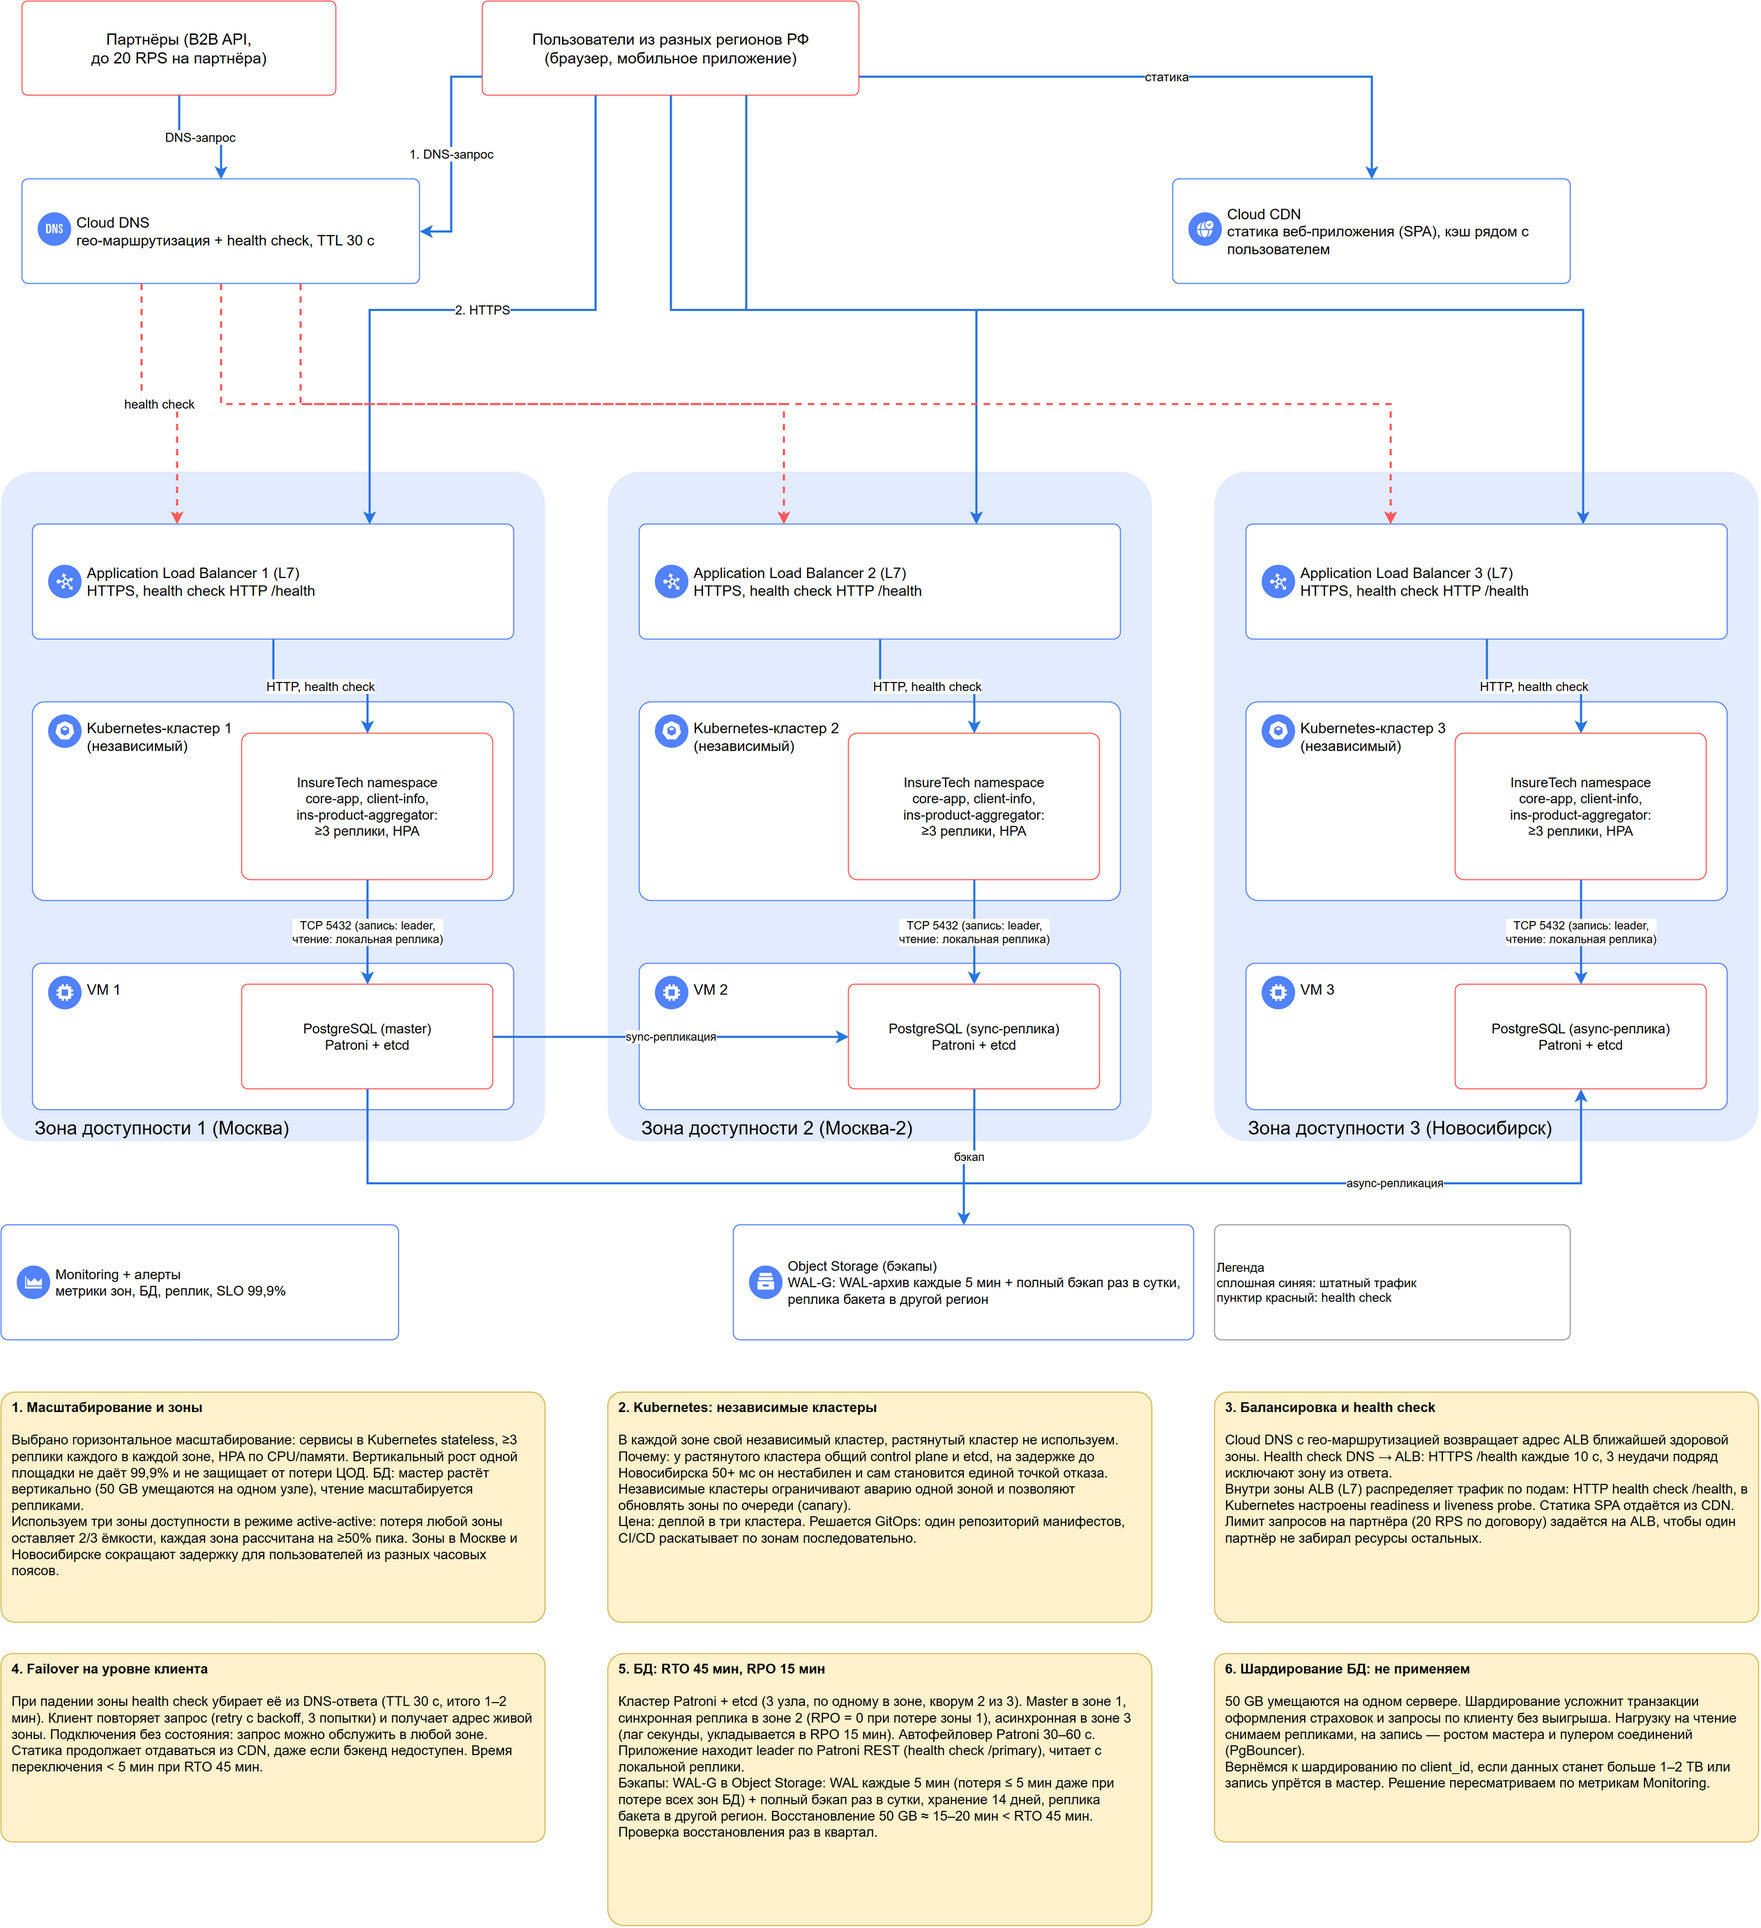
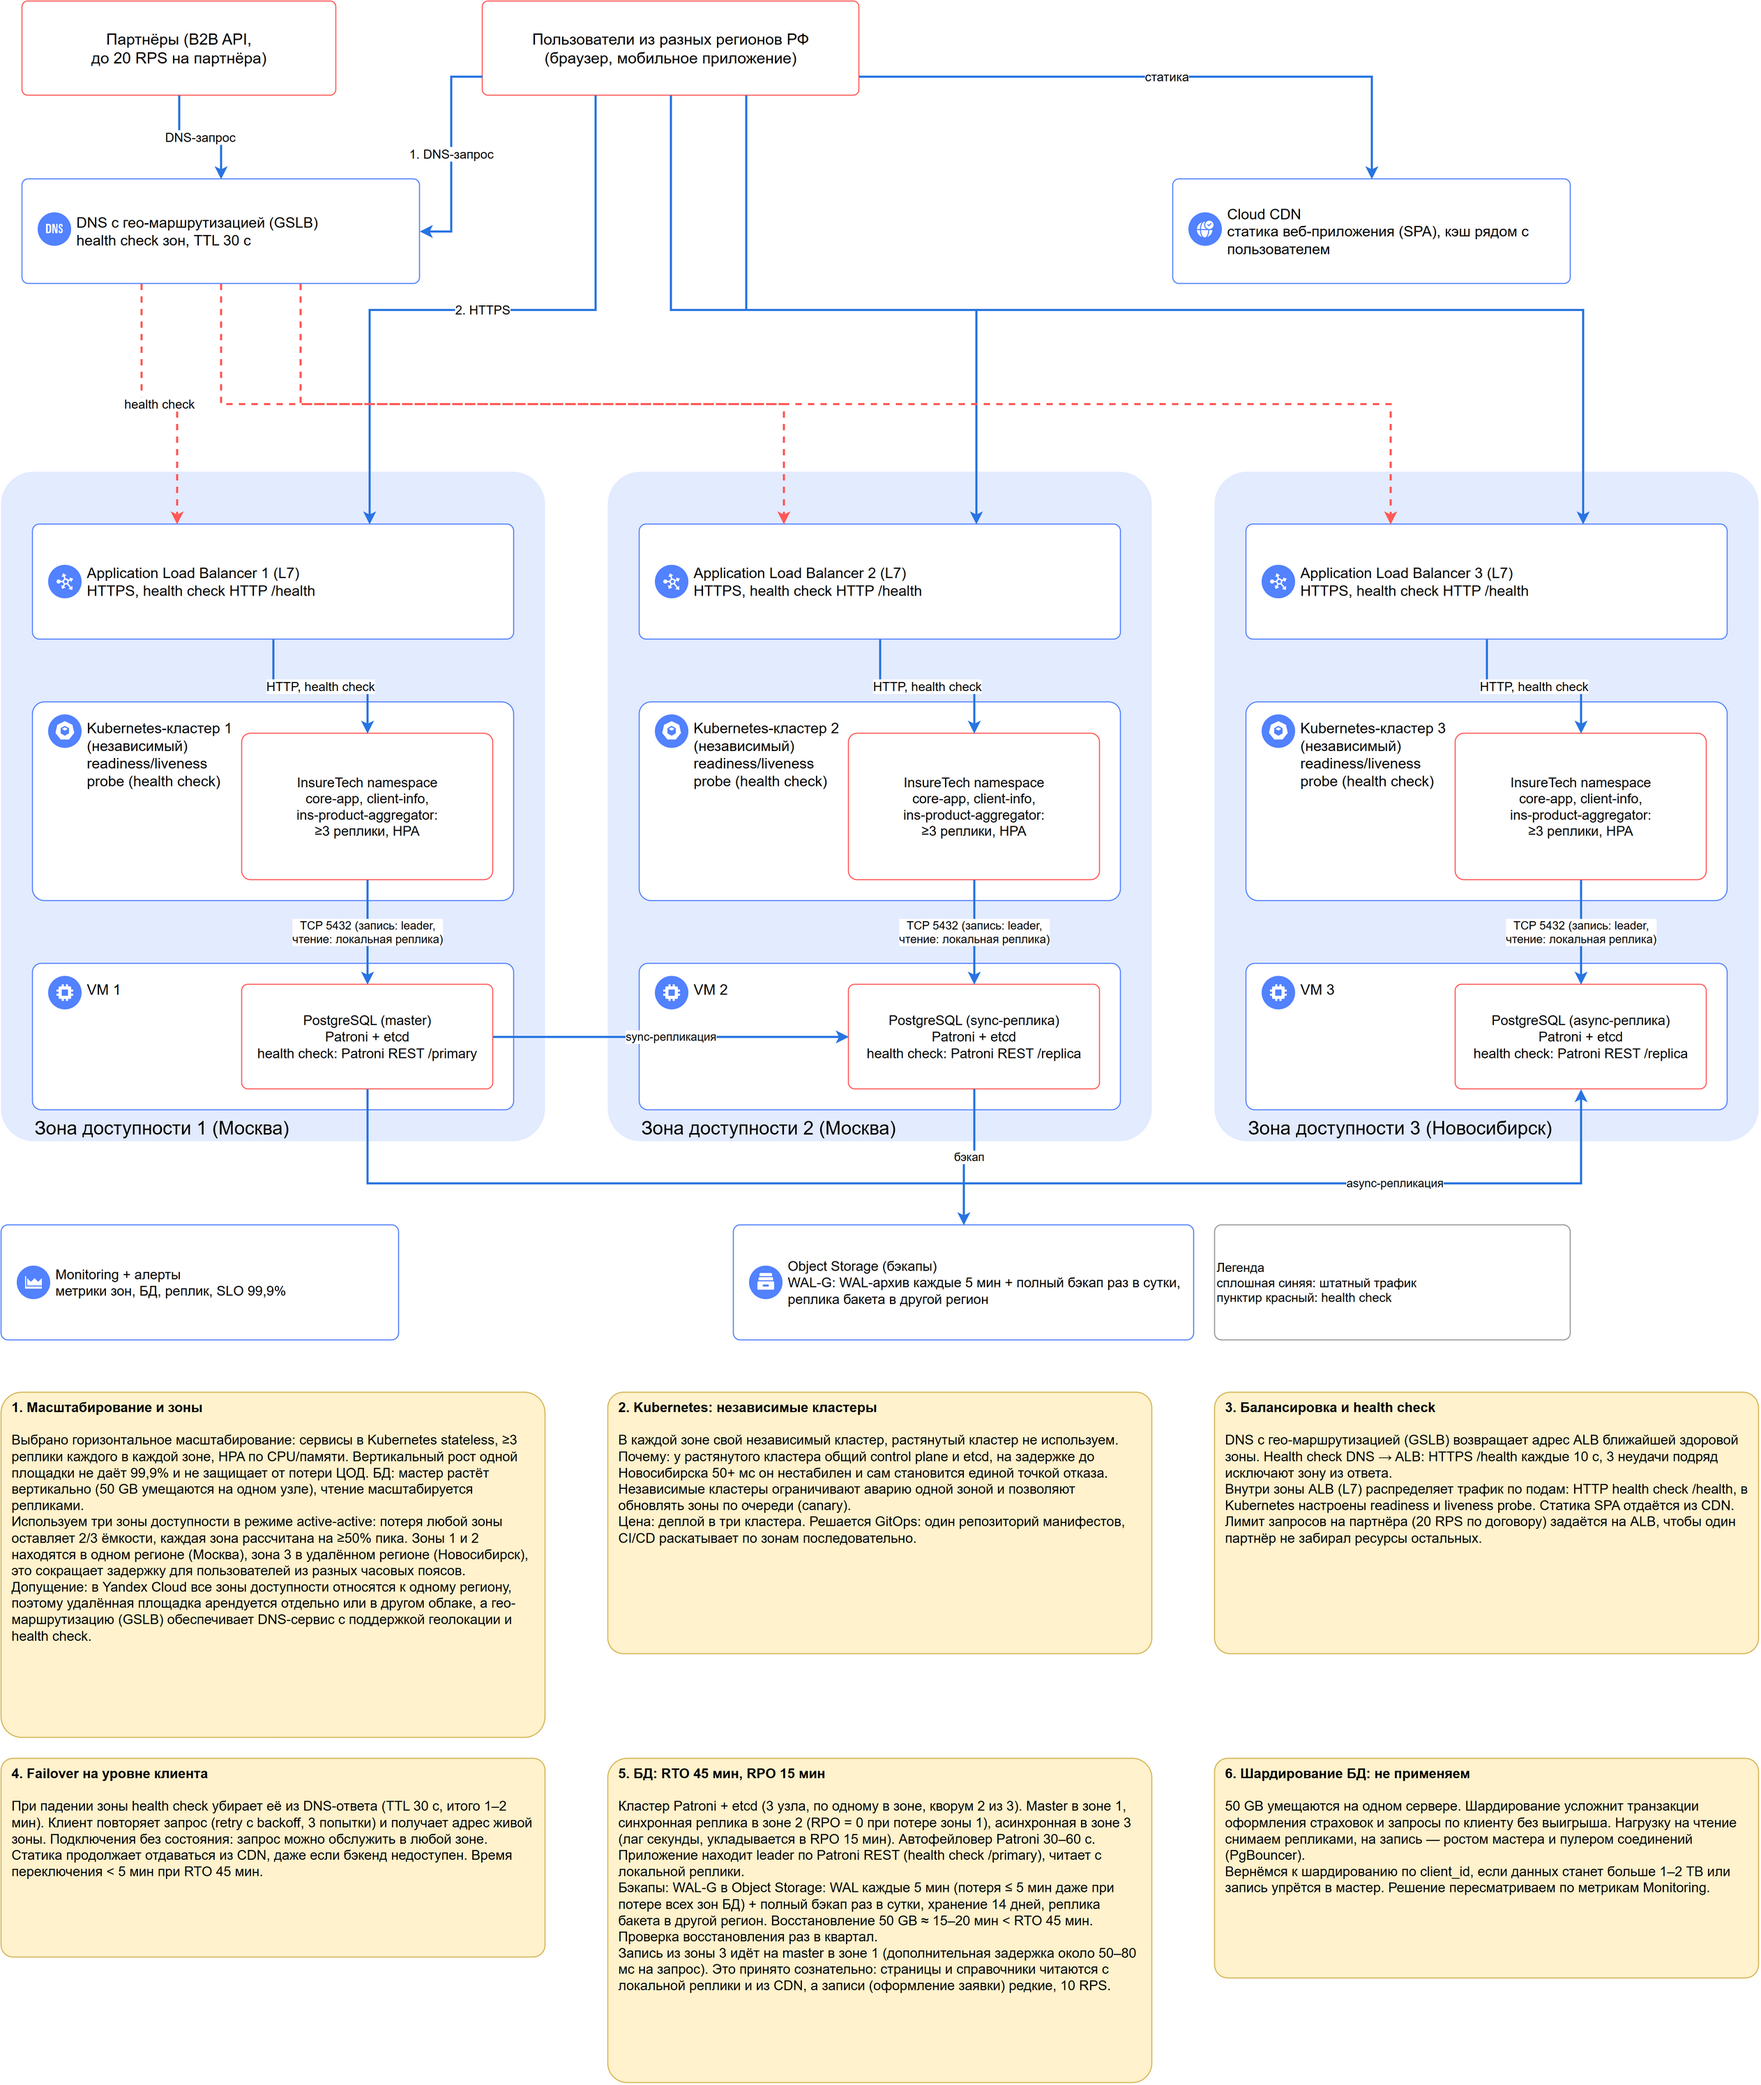
Правки по результатам приёмки: Task1, Task2, Task3, Task4

diff --git a/Task2/README.md b/Task2/README.md
@@ -1,0 +1,52 @@
+# Задание 2. Динамическое масштабирование
+
+## Файлы
+
+| Файл | Содержимое |
+|------|-----------|
+| `deployment.yaml` | Deployment: 1 реплика, лимит памяти 30Mi, порт 8080 |
+| `service.yaml` | Service типа NodePort на порт 8080 |
+| `hpa.yaml` | HPA: масштабирование по памяти, цель 80%, от 1 до 10 реплик |
+| `locustfile.py` | Сценарий нагрузки: пользователи ходят на `GET /` с паузой 1–5 с |
+| `replicas-log.txt` | Состояние HPA и Deployment каждые 15 секунд во время теста |
+| `hpa-describe.txt` | Вывод `kubectl describe hpa` с событием `SuccessfulRescale` и список подов |
+
+## Запуск
+
+```bash
+minikube start -p sprint8 --driver=docker --cpus=2 --memory=2048
+minikube -p sprint8 addons enable metrics-server
+kubectl apply -f deployment.yaml -f service.yaml -f hpa.yaml
+minikube service scaletestapp -p sprint8 --url
+locust -f locustfile.py --headless -u 300 -r 30 -t 5m --host <адрес из предыдущей команды>
+kubectl get hpa scaletestapp --watch
+```
+
+## Почему в Deployment указан requests.memory
+
+HPA с типом `Utilization` считает загрузку как отношение фактического потребления к `requests`, а не к `limits`. Без `requests.memory` HPA не может посчитать процент и не масштабирует. Лимит 30Mi из задания сохранён.
+
+Запрос 15Mi выбран по замерам приложения: в простое оно занимает около 7–8Mi, под нагрузкой около 14Mi (`process_resident_memory_bytes`). При запросе 20Mi под нагрузкой было около 72% и порог 80% не достигался. При 15Mi порог достижим, а потребление в простое остаётся около 50%.
+
+Порог 80% поэтому означает 12Mi на под, а не 24Mi от лимита.
+
+## Результат теста
+
+Нагрузка: 300 пользователей, по 30 новых в секунду, 5 минут, `GET /` через Service (`minikube service --url`).
+
+| Показатель | Значение |
+|-----------|----------|
+| Запросов | 28 984, ошибок 0 |
+| Средняя скорость | около 97 запросов в секунду |
+| Время ответа | среднее 60 мс, медиана 64 мс, максимум 226 мс |
+
+Ход масштабирования (`replicas-log.txt`):
+
+- 15:53:43 – 15:54:13: память 10%, реплик 1.
+- 15:54:29: память растёт до 79%, 88%, затем 94% к 15:56:32.
+- 15:56:32: HPA добавляет вторую реплику (`SuccessfulRescale: New size: 2`).
+- После этого память на под падает до 52–55%, число реплик остаётся 2.
+
+Рост получился до двух реплик: нагрузки хватило, чтобы пересечь порог, но не до максимума в 10.
+
+Нагрузка шла через `minikube service --url`, а не через `kubectl port-forward`: port-forward направляет весь трафик в один под и не показывает распределения по репликам.

diff --git a/Task3/Проблемы_и_риски.md b/Task3/Проблемы_и_риски.md
@@ -60,7 +60,7 @@
 Как устроено:
 - `core-app` в одной транзакции записывает страховку в `core-db` и событие в таблицу `outbox`.
 - `ins-product-aggregator` в одной транзакции обновляет снимок в `ins-product-aggregator-db` и пишет событие в `outbox`. Для этого агрегатору добавлена собственная БД.
-- Контейнер `outbox-relay` (Debezium, Kafka Connect) читает таблицы `outbox` через журнал WAL PostgreSQL и публикует события в Kafka. Опрос таблицы приложением не создаёт лишней нагрузки на БД.
+- Контейнер `outbox-relay` (Debezium, Kafka Connect) читает таблицы `outbox` через журнал WAL PostgreSQL и публикует события в Kafka. Чтение журнала WAL (CDC) не требует периодических запросов к таблице `outbox`, поэтому не создаёт лишней нагрузки на БД, в отличие от варианта, где приложение само опрашивает таблицу.
 - Доставка at-least-once. Потребители идемпотентны: в своей БД хранят идентификаторы обработанных событий (таблица inbox) и отбрасывают дубли.
 
 ## 4. Остаточные риски и меры
